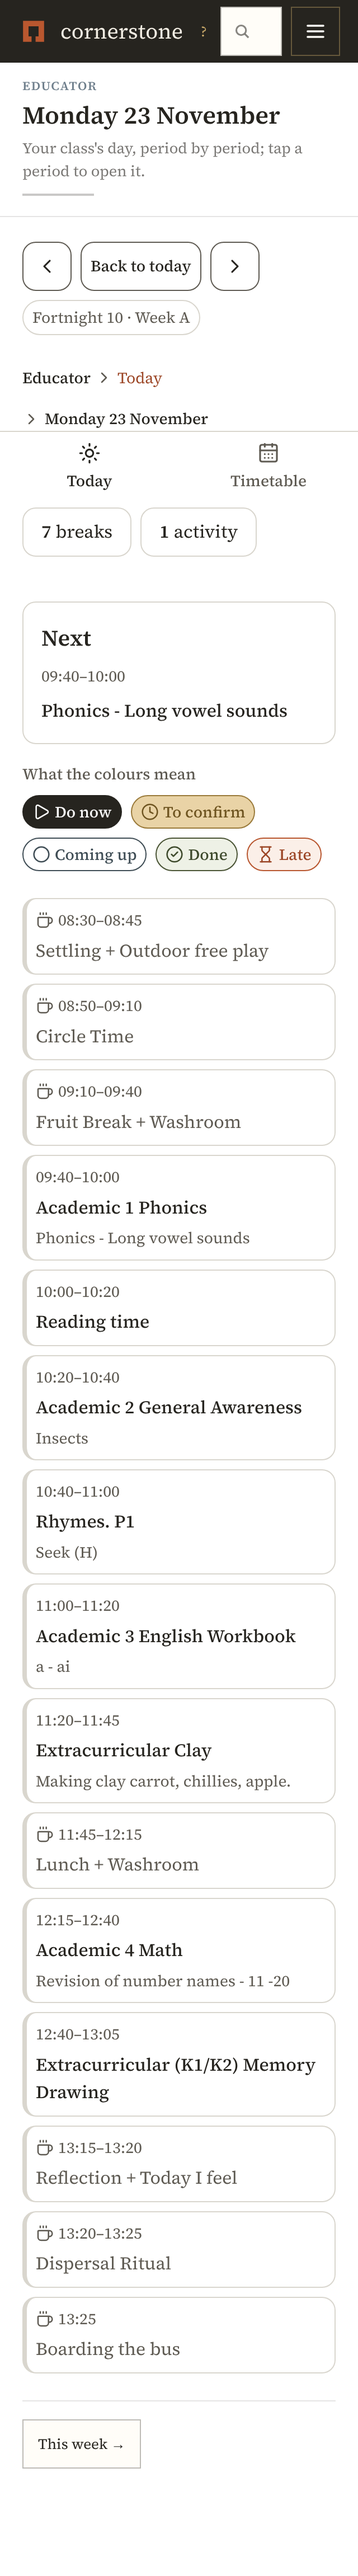
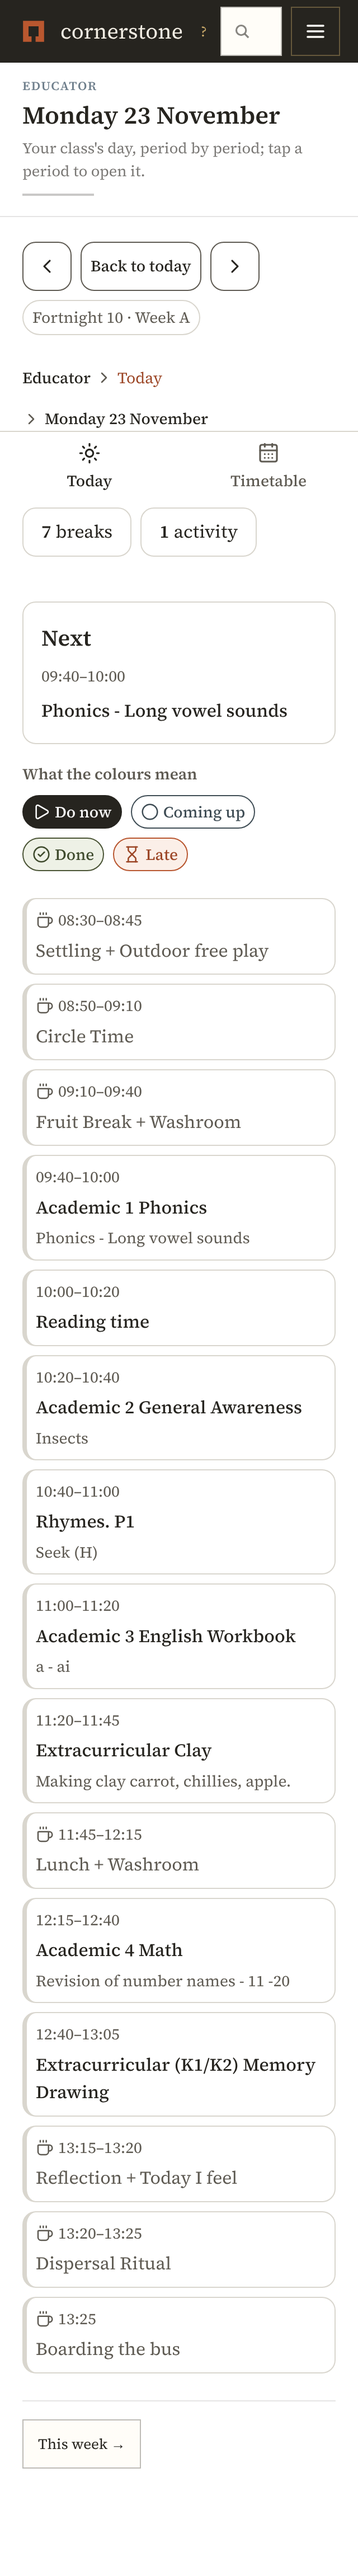
M1-09c: fixes from the code review: the site's heading rule left as it was; a period with no end lasts to the next; one helper names a period and its time; a bad day is not found; a past day says so; the key shows only what can show; tests independent of the date
Claude-Session: https://claude.ai/code/session_01KEBF264xrSf75grt89GY2U

Changed region(s): [[0.0625, 0.2795, 0.75, 0.3417]]

diff --git a/apps/web/app/(app)/educator/page.tsx b/apps/web/app/(app)/educator/page.tsx
@@ -9,6 +9,8 @@ import { requireStaff } from "@/lib/auth";
 import { chipOf, countdown, nowAt } from "@/lib/educator/chip";
 import { longDate, nowAtSchool, schoolDay, whenIs } from "@/lib/educator/clock";
 import { dayOf } from "@/lib/educator/data";
+import { isDay, timeOf, withEnds } from "@/lib/educator/period";
+import { notFound } from "next/navigation";
 import type { Day } from "@/lib/educator/types";
 import { E } from "@/lib/educator/words";
 import { schoolToday } from "@/lib/voice-page";
@@ -19,6 +21,7 @@ export default async function TodayPage({ searchParams }: { searchParams: Promis
   const me = await requireStaff();
   const q = await searchParams;
   const today = schoolToday();
+  if (q.day !== undefined && !isDay(q.day)) notFound();
   const asked = q.go === "tomorrow" ? schoolDay(q.day ?? today, 1) : (q.day ?? today);
   const d = await dayOf(me, { class_id: q.class, day: asked });
   const at = (day: string) => `/educator?class=${d.class.id}&day=${day}`;
@@ -47,10 +50,11 @@ function DayCalendar({ d, classId }: { d: Day; classId: string }) {
     return <EmptyState>{d.kind === "holiday" ? `${E.dayKind.holiday}${d.note ? `: ${d.note}` : ""}` : E.dayKind.none}</EmptyState>;
   const when = whenIs(d.day);
   const now = nowAtSchool();
-  const work = d.periods.map((p) => ({ p, chip: chipOf(p, { now, day: when }) }));
+  const periods = withEnds(d.periods);
+  const work = periods.map((p) => ({ p, chip: chipOf(p, { now, day: when }) }));
   const lessons = d.periods.filter((p) => p.kind !== "fixed" && p.kind !== "empty");
   const next = work.find((w) => w.chip === "doNow") ?? (when === "past" ? undefined : work.find((w) => w.p.kind !== "fixed" && w.p.kind !== "empty" && (when === "future" || w.p.starts_at > now)));
-  const line = when === "today" ? nowAt(d.periods, now) : null;
+  const line = when === "today" ? nowAt(periods, now) : null;
   const href = (id: string) => `/educator/period/${id}?class=${classId}&day=${d.day}`;
   const first = (ps: typeof d.periods) => (ps[0] ? `#p-${ps[0].period_id}` : undefined);
   const breaks = d.periods.filter((p) => p.kind === "fixed");
@@ -69,29 +73,30 @@ function DayCalendar({ d, classId }: { d: Day; classId: string }) {
       </div>
       <ol data-day={d.day} data-day-kind={d.kind} aria-label={longDate(d.day)} className="col-span-12 grid gap-[var(--space-2)] lg:col-span-8">
         {d.note?.startsWith("undecided:") ? <li className="text-[length:var(--text-label)] text-[var(--text-muted)]">{E.dayKind.undecided}</li> : null}
-        {d.periods.map((p, i) => (
+        {periods.map((p, i) => (
           <li key={p.period_id} className="grid gap-[var(--space-2)]">
             {line === i ? <NowLine now={now} /> : null}
             <PeriodBlock p={p} href={href(p.period_id)} day={when} now={now} />
           </li>
         ))}
-        {line === d.periods.length ? <NowLine now={now} /> : null}
+        {line === periods.length ? (
+          <li>
+            <NowLine now={now} />
+          </li>
+        ) : null}
       </ol>
       <aside aria-label={E.glance} className="col-span-12 grid content-start gap-[var(--space-3)] max-lg:order-[-1] lg:col-span-4">
         <section className="grid gap-[var(--space-2)] rounded-[var(--radius-m)] border border-[var(--border)] p-[var(--space-3)]" data-next>
           <h2 className="text-[length:var(--text-h3)] font-semibold">{E.nextUp}</h2>
           {next ? (
             <>
-              <span className="text-[length:var(--text-label)] text-[var(--text-muted)] tabular-nums">
-                {next.p.starts_at}
-                {next.p.ends_at ? `–${next.p.ends_at}` : ""}
-              </span>
+              <span className="text-[length:var(--text-label)] text-[var(--text-muted)] tabular-nums">{timeOf(next.p)}</span>
               <span className="font-medium">{next.p.activity?.name ?? next.p.line ?? next.p.label}</span>
               {next.chip ? <ChipTag chip={next.chip} /> : null}
               {next.chip !== "doNow" && when === "today" ? <span data-countdown className="w-fit rounded-[var(--radius-pill)] border px-[var(--space-2)] py-[var(--space-1)] text-[length:var(--text-label)] font-medium" style={{ color: "var(--chip-soon-fg)", borderColor: "var(--chip-soon-bd)" }}>{countdown(now, next.p.starts_at)}</span> : null}
             </>
           ) : (
-            <p className="text-[var(--text-muted)]">{E.nothingLeft}</p>
+            <p className="text-[var(--text-muted)]">{when === "past" ? E.dayOver : E.nothingLeft}</p>
           )}
         </section>
         <section className="grid gap-[var(--space-2)]">

diff --git a/apps/web/tests/m1-09-calendar.spec.ts b/apps/web/tests/m1-09-calendar.spec.ts
@@ -26,6 +26,14 @@ test.afterAll(async () => {
 
 const white = (page: Page) => page.locator("[data-educator]").evaluate((e) => getComputedStyle(e).backgroundColor);
 
+test("a day in the address that is not a date is not found, never an error", async ({ page }) => {
+  await timetableSwitch(sql, true);
+  for (const href of ["/educator?day=foo", "/educator?day=foo&go=tomorrow", "/educator/week?day=foo"]) {
+    await page.goto(`${href}&class=${klass}`);
+    await expect(page.getByText("This page could not be found.")).toBeVisible();
+  }
+});
+
 test("while the timetable is switched off Today, This week and a period are not found", async ({ page }) => {
   await timetableSwitch(sql, false);
   for (const href of ["/educator", "/educator/week", "/educator/period/00000000-0000-0000-0000-000000000000"]) {
@@ -47,7 +55,8 @@ test("Today is the day as a calendar: every period a block in time order, its ti
   expect([...times].sort()).toEqual(times);
   await expect(page.locator('[data-kind="fixed"]').first()).toContainText("Settling + Outdoor free play");
   await expect(page.locator('[data-kind="fixed"] [data-chip]')).toHaveCount(0);
-  await expect(page.locator(`[data-day="${MONDAY}"] [data-chip]`)).toHaveCount(0); // a day ahead: no chip on any cell (D-075)
+  // no chip but Do now on any cell (D-075: a future cell has none, and nothing is recorded); Do now only while it runs
+  await expect(page.locator(`[data-day="${MONDAY}"] [data-chip]:not([data-chip="doNow"])`)).toHaveCount(0);
   const fills = await page.locator("[data-educator] *").evaluateAll((els) =>
     els.map((e) => getComputedStyle(e).backgroundColor).filter((c) => ["rgb(243, 241, 232)", "rgb(251, 250, 247)", "rgb(237, 227, 211)"].includes(c)),
   );
@@ -56,8 +65,9 @@ test("Today is the day as a calendar: every period a block in time order, its ti
   await expect(strip).toContainText("15 periods");
   await expect(strip.locator("a").first()).toBeVisible(); // every count opens what it counts
   await expect(page.locator("[data-period]").filter({ hasText: "general_awareness" })).toHaveCount(0);
-  await expect(page.locator("[data-next]")).toContainText("09:40");
-  await expect(page.getByLabel("What the colours mean").locator("[data-chip]")).toHaveCount(5);
+  const ahead = MONDAY > (await page.evaluate(() => new Date().toLocaleDateString("en-CA", { timeZone: "Asia/Kolkata" })));
+  await expect(page.locator("[data-next]")).toContainText(ahead ? "09:40" : "This day is over."); // on and after the day itself, the aside says so
+  await expect(page.getByLabel("What the colours mean").locator("[data-chip]")).toHaveCount(4); // Do now, Coming up, Done, Late
   await expect(page.locator("[data-now]")).toHaveCount(0); // not today: no Now line
   await tapsAreBig(page);
   await displayFaceOnlyLarge(page);

diff --git a/apps/web/lib/educator/chip.ts b/apps/web/lib/educator/chip.ts
@@ -1,31 +1,26 @@
 import type { Period } from "./types";
 
-// The one rule for a period's chip on every screen (M1-09, D-075): Do now while it runs, To confirm when a part waits
-// for her, Done or Late only from what was recorded (a note, M1-04); none on a period still to come (the countdown says
-// when), none on a fixed or empty period, and none over and unrecorded: the screen never guesses that work was missed.
-export type Chip = "doNow" | "toConfirm" | "comingUp" | "done" | "late";
+// The one rule for a period's chip on every screen (M1-09, D-075): Do now while it runs, Done or Late only from what
+// was recorded (a note, M1-04); none on a period still to come (the countdown says when), none on a fixed or empty
+// period, and none over and unrecorded: the screen never guesses that work was missed. "To confirm" (amber) comes when
+// the engine says a part waits for her; nothing does yet.
+export type Chip = "doNow" | "comingUp" | "done" | "late";
 
-export function chipOf(
-  p: Pick<Period, "starts_at" | "ends_at" | "kind" | "state">,
-  at: { now: string; day: "past" | "today" | "future"; toConfirm?: boolean },
-): Chip | null {
+/** `p` with its end filled (lib/educator/period.ts `withEnds`): a period with none runs to the end of the day. */
+export function chipOf(p: Pick<Period, "starts_at" | "ends_at" | "kind" | "state">, at: { now: string; day: "past" | "today" | "future" }): Chip | null {
   if (p.kind === "fixed" || p.kind === "empty") return null;
   if (p.state === "done") return "done";
   if (p.state === "not_done") return "late";
-  if (at.day === "future") return at.toConfirm ? "toConfirm" : null;
-  if (at.day === "past") return null;
-  const running = p.starts_at <= at.now && (p.ends_at === null || at.now < p.ends_at);
-  if (running) return "doNow";
-  if (at.toConfirm) return "toConfirm";
-  return null;
+  if (at.day !== "today") return null;
+  return p.starts_at <= at.now && (p.ends_at === null || at.now < p.ends_at) ? "doNow" : null;
 }
 
-/** Where today's Now line falls: the index of the first period still to come (after the one running), or null before
- * the day starts and after it ends. */
+/** Where today's Now line falls among the periods (ends filled): the index of the first one still to come, the count
+ * when the last is running, or null before the day starts and after it ends. */
 export function nowAt(ps: Pick<Period, "starts_at" | "ends_at">[], now: string): number | null {
   if (!ps.length || now < ps[0].starts_at) return null;
   const last = ps[ps.length - 1];
-  if (now >= (last.ends_at ?? last.starts_at)) return null;
+  if (last.ends_at !== null && now >= last.ends_at) return null;
   const i = ps.findIndex((p) => p.starts_at > now);
   return i === -1 ? ps.length : i;
 }

diff --git a/apps/web/tests/m1-09-tokens.spec.ts b/apps/web/tests/m1-09-tokens.spec.ts
@@ -7,6 +7,7 @@ import path from "node:path";
 import { expect, test } from "@playwright/test";
 import { TEXT_PAIRS, contrast, readTokens } from "./tokens-file";
 import { chipOf, nowAt } from "../lib/educator/chip";
+import { isDay, withEnds } from "../lib/educator/period";
 
 const T = readTokens(); // apps/web/design-system/tokens.css, the school's one tokens file (D-073)
 const px = (v: string) => (v.endsWith("rem") ? parseFloat(v) * 16 : parseFloat(v));
@@ -69,8 +70,10 @@ test("a chip is one thing everywhere: Do now in the period, none on a period sti
   expect(chipOf({ ...p, state: "not_done" }, { now: "12:00", day: "today" })).toBe("late");
   expect(chipOf({ ...p, kind: "fixed" }, { now: "11:35", day: "today" })).toBe(null);
   expect(chipOf({ ...p, kind: "empty" }, { now: "11:35", day: "today" })).toBe(null);
-  expect(chipOf(p, { now: "11:00", day: "today", toConfirm: true })).toBe("toConfirm");
-  expect(chipOf({ ...p, ends_at: null }, { now: "11:35", day: "today" })).toBe("doNow"); // no end: until the next period
+  expect(chipOf({ ...p, ends_at: null }, { now: "11:35", day: "today" })).toBe("doNow"); // the day's last: to its end
+  // the bus has no end: it lasts until the next period starts, so the two are never Do now together
+  const [bus, after] = withEnds([{ ...p, starts_at: "10:00", ends_at: null }, { ...p, starts_at: "10:20", ends_at: "10:40" }]);
+  expect([chipOf(bus, { now: "10:30", day: "today" }), chipOf(after, { now: "10:30", day: "today" })]).toEqual([null, "doNow"]);
 });
 
 test("the Now line falls before the first period still to come, after the one running, and nowhere before or after the day", () => {
@@ -83,4 +86,12 @@ test("the Now line falls before the first period still to come, after the one ru
   expect(nowAt(ps, "09:00")).toBe(1);
   expect(nowAt(ps, "08:00")).toBe(null); // before the day
   expect(nowAt(ps, "11:00")).toBe(null); // after it
+  expect(nowAt([...ps, { starts_at: "13:25", ends_at: null }], "13:40")).toBe(4); // the last has no end: still running
+});
+
+test("a day in the address is a real date or nothing", () => {
+  expect(isDay("2026-11-23")).toBe(true);
+  expect(isDay("foo")).toBe(false);
+  expect(isDay("2026-13-40")).toBe(false);
+  expect(isDay(undefined)).toBe(false);
 });

diff --git a/apps/web/app/(app)/educator/week/page.tsx b/apps/web/app/(app)/educator/week/page.tsx
@@ -8,6 +8,8 @@ import { Legend } from "@/components/educator/tags";
 import { requireStaff } from "@/lib/auth";
 import { mondayOf, nowAtSchool, shortDate, whenIs } from "@/lib/educator/clock";
 import { weekOf } from "@/lib/educator/data";
+import { isDay, withEnds } from "@/lib/educator/period";
+import { notFound } from "next/navigation";
 import type { Week } from "@/lib/educator/types";
 import { E } from "@/lib/educator/words";
 import { schoolToday } from "@/lib/voice-page";
@@ -18,6 +20,7 @@ export default async function WeekPage({ searchParams }: { searchParams: Promise
   const me = await requireStaff();
   const q = await searchParams;
   const today = schoolToday();
+  if (q.day !== undefined && !isDay(q.day)) notFound();
   const monday = mondayOf(q.day ?? today, q.go === "next" ? 1 : 0);
   const w = await weekOf(me, { class_id: q.class, week_of: monday });
   const at = (day: string) => `/educator/week?class=${w.class.id}&day=${day}`;
@@ -85,7 +88,7 @@ function WeekGrid({ w }: { w: Week }) {
               {d.kind === "holiday" ? `${E.dayKind.holiday}${d.note ? `: ${d.note}` : ""}` : E.dayKind.none}
             </div>
           ) : (
-            d.periods.map((p) => (
+            withEnds(d.periods).map((p) => (
               <div key={`${d.day}-${p.period_id}`} data-day={d.day} style={{ ...col, "--r": row(p.starts_at) } as React.CSSProperties} className="min-w-0 md:[grid-column:var(--c)] md:[grid-row:var(--r)]">
                 <PeriodBlock p={p} href={`/educator/period/${p.period_id}?class=${w.class.id}&day=${d.day}`} day={when} now={now} compact />
               </div>

diff --git a/apps/web/components/educator/block.tsx b/apps/web/components/educator/block.tsx
@@ -1,6 +1,7 @@
 import Link from "@/components/link";
 import { Icon } from "@/lib/icons";
 import { chipOf } from "@/lib/educator/chip";
+import { nameOf, timeOf } from "@/lib/educator/period";
 import type { Period } from "@/lib/educator/types";
 import { E } from "@/lib/educator/words";
 import { CHIP, ChipTag } from "./tags";
@@ -10,7 +11,7 @@ import { CHIP, ChipTag } from "./tags";
 // period. `compact` is the week grid's cell.
 export function PeriodBlock({ p, href, day, now, compact = false }: { p: Period; href: string; day: "past" | "today" | "future"; now: string; compact?: boolean }) {
   const chip = chipOf(p, { now, day });
-  const time = `${p.starts_at}${p.ends_at ? `–${p.ends_at}` : ""}`;
+  const time = timeOf(p);
   if (p.kind === "empty")
     return (
       <div id={`p-${p.period_id}`} data-period={p.period_id} data-kind="empty" className="grid min-h-[var(--tap)] content-center rounded-[var(--radius-m)] border border-dashed border-[var(--border)] px-[var(--space-2)] text-[length:var(--text-label)] text-[var(--text-muted)]">
@@ -19,8 +20,7 @@ export function PeriodBlock({ p, href, day, now, compact = false }: { p: Period;
       </div>
     );
   const fixed = p.kind === "fixed";
-  const cut = p.line ? p.text.lastIndexOf(": ") : -1;
-  const title = fixed ? p.label : cut > 0 ? p.text.slice(0, cut) : p.text || p.label;
+  const title = nameOf(p);
   const what = p.activity?.name ?? (fixed ? null : p.line);
   return (
     <Link

diff --git a/apps/web/app/(app)/educator/period/[id]/page.tsx b/apps/web/app/(app)/educator/period/[id]/page.tsx
@@ -7,6 +7,8 @@ import { requireStaff } from "@/lib/auth";
 import { chipOf } from "@/lib/educator/chip";
 import { longDate, nowAtSchool, whenIs } from "@/lib/educator/clock";
 import { periodOf } from "@/lib/educator/data";
+import { isDay, nameOf, timeOf } from "@/lib/educator/period";
+import { notFound } from "next/navigation";
 import { Icon } from "@/lib/icons";
 import { E } from "@/lib/educator/words";
 import { schoolToday } from "@/lib/voice-page";
@@ -19,12 +21,12 @@ const HEAD = "flex items-center gap-[var(--space-2)] text-[length:var(--text-h3)
 export default async function PeriodPage({ params, searchParams }: { params: Promise<{ id: string }>; searchParams: Promise<{ class?: string; day?: string }> }) {
   const me = await requireStaff();
   const [{ id }, q] = await Promise.all([params, searchParams]);
+  if (q.day !== undefined && !isDay(q.day)) notFound();
   const p = await periodOf(me, { class_id: q.class, day: q.day ?? schoolToday(), period_id: id });
   const chip = chipOf(p, { now: nowAtSchool(), day: whenIs(p.day) });
-  const time = `${p.starts_at}${p.ends_at ? `–${p.ends_at}` : ""}`;
+  const time = timeOf(p);
   const today = `/educator?class=${p.class.id}&day=${p.day}`;
-  const cut = p.line ? p.text.lastIndexOf(": ") : -1;
-  const name = p.kind === "fixed" ? p.label : cut > 0 ? p.text.slice(0, cut) : p.text || p.label;
+  const name = nameOf(p);
   return (
     <PageShell
       stage={E.area}

diff --git a/apps/web/components/educator/tags.tsx b/apps/web/components/educator/tags.tsx
@@ -6,7 +6,6 @@ import { E } from "@/lib/educator/words";
 // done, amber needs you soon, terracotta late and work only, monsoon coming up, basalt do now). Colours are tokens only.
 export const CHIP: Record<Chip, { icon: IconName; fg: string; bg: string; bd: string }> = {
   doNow: { icon: "play", fg: "var(--chip-donow-fg)", bg: "var(--chip-donow-bg)", bd: "var(--chip-donow-bd)" },
-  toConfirm: { icon: "to-confirm", fg: "var(--chip-confirm-fg)", bg: "var(--chip-confirm-bg)", bd: "var(--chip-confirm-bd)" },
   comingUp: { icon: "to-do", fg: "var(--chip-soon-fg)", bg: "var(--chip-soon-bg)", bd: "var(--chip-soon-bd)" },
   done: { icon: "done", fg: "var(--chip-done-fg)", bg: "var(--chip-done-bg)", bd: "var(--chip-done-bd)" },
   late: { icon: "late", fg: "var(--chip-late-fg)", bg: "var(--chip-late-bg)", bd: "var(--chip-late-bd)" },
@@ -22,7 +21,8 @@ export function ChipTag({ chip }: { chip: Chip }) {
   );
 }
 
-/** The colour key, once per page: every state the page can show, in its colour and word. */
+/** The colour key, once per page: every state the timetable can show, in its colour and word (Coming up is the
+ * countdown's colour). */
 export function Legend() {
   return (
     <div aria-label={E.legend} className="flex flex-wrap gap-[var(--space-2)]">

diff --git a/apps/web/lib/educator/period.ts b/apps/web/lib/educator/period.ts
@@ -1,0 +1,21 @@
+import type { Period } from "./types";
+
+// What a period is called and when it is, said once for every screen (M1-09).
+
+/** A period with no end (the bus) lasts until the next one starts; the day's last one keeps none. */
+export const withEnds = <P extends Pick<Period, "starts_at" | "ends_at">>(ps: P[]): P[] =>
+  ps.map((p, i) => (p.ends_at === null && ps[i + 1] ? { ...p, ends_at: ps[i + 1].starts_at } : p));
+
+/** Its time as time: "09:40–10:00", or "13:25" when it has no end. */
+export const timeOf = (p: Pick<Period, "starts_at" | "ends_at">) => `${p.starts_at}${p.ends_at ? `–${p.ends_at}` : ""}`;
+
+/** The frame's name for it ("Academic 2 General Awareness"): a break by its own words, a lesson by the frame's text up
+ * to the planner's line. */
+export function nameOf(p: Pick<Period, "kind" | "label" | "text" | "line">): string {
+  if (p.kind === "fixed") return p.label;
+  const cut = p.line ? p.text.lastIndexOf(": ") : -1;
+  return cut > 0 ? p.text.slice(0, cut) : p.text || p.label;
+}
+
+/** A day in the address: YYYY-MM-DD and a real date, or nothing. */
+export const isDay = (s: string | undefined): s is string => !!s && /^\d{4}-\d{2}-\d{2}$/.test(s) && !Number.isNaN(Date.parse(`${s}T00:00:00Z`));

diff --git a/apps/web/lib/educator/words.ts b/apps/web/lib/educator/words.ts
@@ -1,7 +1,7 @@
 // Every word the K2 educator's timetable screens show (M1-09): one file, the school's words, few in each place.
 export const E = {
   area: "Educator",
-  chips: { doNow: "Do now", toConfirm: "To confirm", comingUp: "Coming up", done: "Done", late: "Late" },
+  chips: { doNow: "Do now", comingUp: "Coming up", done: "Done", late: "Late" },
   nav: { label: "Your timetable", today: "Today", timetable: "Timetable", day: "Tomorrow", week: "This week", nextWeek: "Next week" },
   today: { title: "Today", purpose: "Your class's day, period by period; tap a period to open it." },
   week: { title: "This week", purpose: "Your class's week as a calendar; tap any period to open it." },
@@ -23,6 +23,7 @@ export const E = {
   glance: "This day at a glance",
   nextUp: "Next",
   nothingLeft: "Nothing more today.",
+  dayOver: "This day is over.",
   legend: "What the colours mean",
   schoolWords: "The school's words",
   planner: "The planner for this subject, this fortnight",

diff --git a/apps/web/app/globals.css b/apps/web/app/globals.css
@@ -51,16 +51,13 @@ body {
   line-height: 1.55;
 }
 
-/* Headings: the same serif, a weight heavier; never all-caps. In the base layer, so a heading's own utility (a smaller
-   heading set in the body face, D-073 R3) wins. */
-@layer base {
-  h1,
-  h2,
-  h3 {
-    font-family: var(--font-heading);
-    font-weight: 600;
-    margin: 0;
-  }
+/* Headings: the same serif, a weight heavier; never all-caps. */
+h1,
+h2,
+h3 {
+  font-family: var(--font-heading);
+  font-weight: 600;
+  margin: 0;
 }
 
 /* In the base layer, so a link's own utility colours win: unlayered, this `a:hover` beat the

diff --git a/docs/notes/m1-09c-educator-calendar.md b/docs/notes/m1-09c-educator-calendar.md
@@ -42,6 +42,17 @@ the site's look and font (orchestrator, 5 Nov; tested).
   span, then each D-075 rule) before each fix.
 - Screenshots: `docs/screens/m1-09-built/1-today-*`, `2-week-*`, `3-period-*` (1280, 390, 1280 at 200%).
 
+## From the code review (each fixed, the code-level ones test first)
+
+- The site's heading rule stays as it was (moving it to the base layer changed heading spacing on old pages); only the
+  phone's 24 px floor moves, so a control's own 44 px wins.
+- A period with no end (the bus) lasts until the next starts (`lib/educator/period.ts` `withEnds`), so the chip and the
+  Now line agree; a period's name and time are said by one helper.
+- A day in the address that is not a date is not found, not a crash. A past day says "This day is over."
+- The colour key shows only what the timetable can show (Do now, Coming up as the countdown's colour, Done, Late); the
+  unused "To confirm" branch is gone until the engine says a part waits for her.
+- The tests no longer assume 23 Nov is ahead.
+
 ## Open
 
 - The planner list on a period shows each line twice for a subject planned in both blocks of the fortnight (M1-06's
